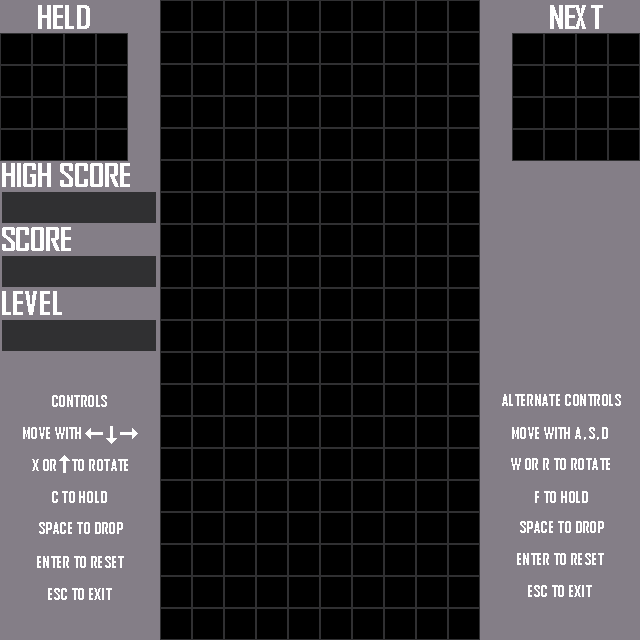
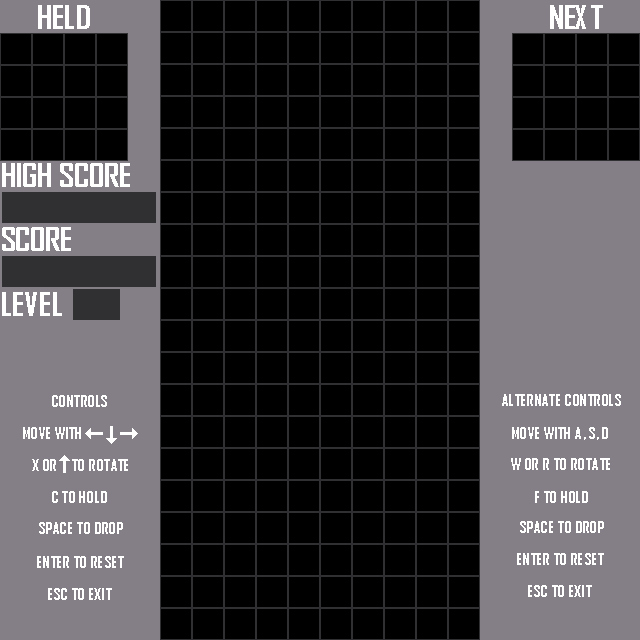
changed sprite

Changed region(s): [[0.0, 0.4375, 0.25, 0.5625]]

diff --git a/src/tetris.rs b/src/tetris.rs
@@ -705,7 +705,7 @@ impl Board {
 
         screen.draw_text((9,191), &format!("{}",self.highscore), 32.0, &[255;4], drawing::DEBUG_FONT);
         screen.draw_text((9,254), &format!("{}",self.score), 32.0, &[255;4], drawing::DEBUG_FONT);
-        screen.draw_text((9,318), &format!("{:02}",self.level), 32.0, &[255;4], drawing::DEBUG_FONT);
+        screen.draw_text((83,287), &format!("{:02}",self.level), 32.0, &[255;4], drawing::DEBUG_FONT);
 
         if self.gameover {
             screen.draw_text((195 ,40), "GAME OVER", 64.0, &GAME_OVER_COLOR, drawing::DEBUG_FONT);
